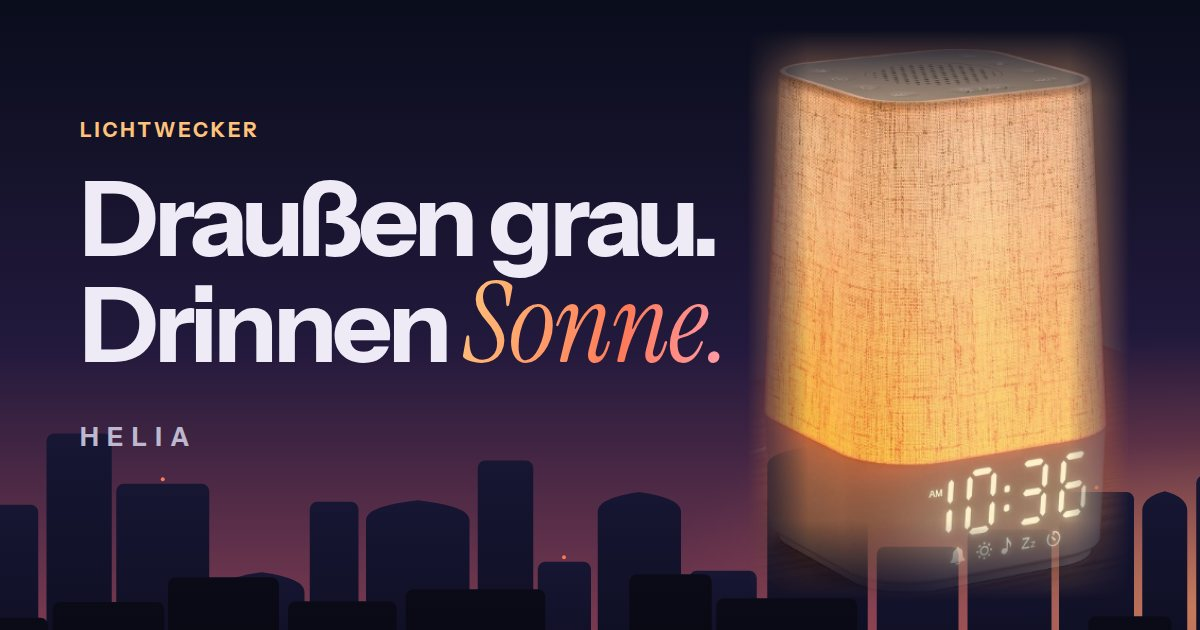
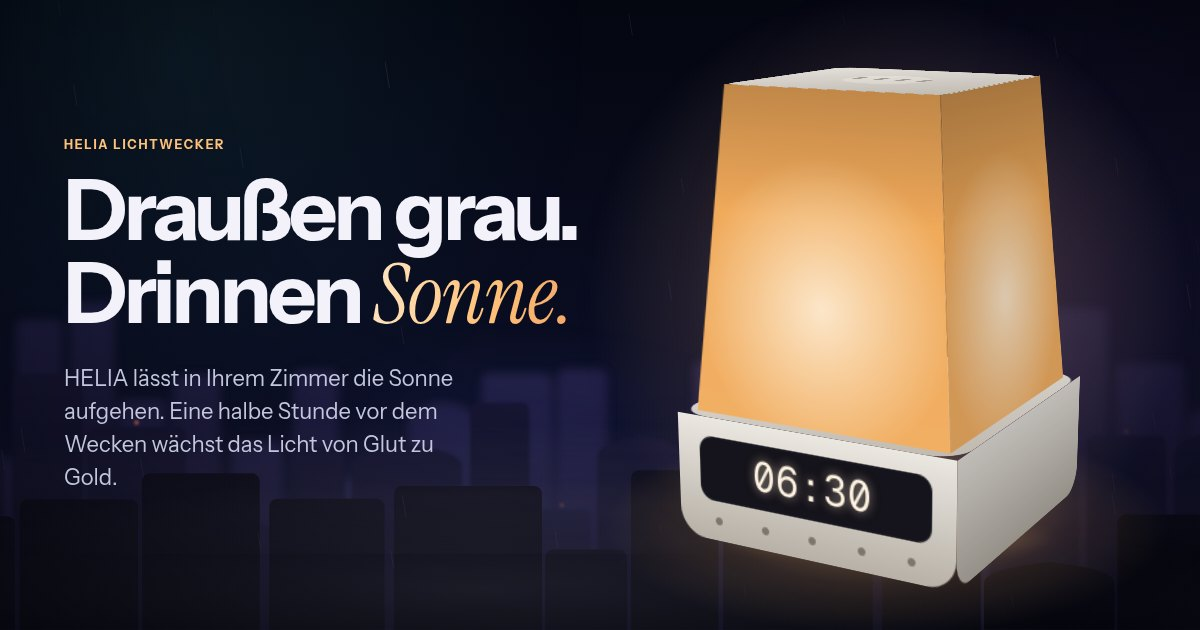
HELIA: Kopfbereich mit leuchtender 3D-Lampe und modernerem Auftritt
Kopfbereich im goldenen Schnitt mit drehbarer 3D-Lampe statt Fremdfoto,
Licht-Intro beim Laden, gestaffelte Überschrift, schwebende Hinweise mit
Tiefe, Lichtteppich, hochzählende Zahlen. Vorschaubild ohne Fremdfoto.

Claude-Session: https://claude.ai/code/session_01FxD9XwDGaasw5Yh16VoMkN

diff --git a/shops/helia/index.html b/shops/helia/index.html
@@ -61,32 +61,25 @@
 <main id="inhalt">
 
 <section class="held" aria-labelledby="titel">
-  <span class="marke">HELIA Lichtwecker</span>
-  <h1 id="titel">Draußen grau. Drinnen <span class="leucht">Sonne.</span></h1>
-  <p class="held__unter">HELIA lässt in Ihrem Zimmer die Sonne aufgehen. Eine halbe Stunde vor dem Wecken wächst das Licht von Glut zu Gold.</p>
-  <a class="held__sterne" href="#bewertungen" data-rez="kopf"><span class="sterne" data-rez="sterne-kopf"></span><span data-rez="kopf-text">Bewertungen ansehen</span></a>
-  <div class="held__kauf">
-    <div class="preis">
-      <span class="preis__betrag" data-preis="einzeln">49,90 €</span>
-      <span class="preis__info" data-nur-einfuehrung>Einführungspreis bis 30.11.2026</span>
+  <div class="held__text">
+    <span class="marke held__an" style="--i:0">HELIA Lichtwecker</span>
+    <h1 id="titel"><span class="held__an" style="--i:1">Draußen grau.</span> <span class="held__an" style="--i:2">Drinnen <span class="leucht">Sonne.</span></span></h1>
+    <p class="held__unter held__an" style="--i:3">HELIA lässt in Ihrem Zimmer die Sonne aufgehen. Eine halbe Stunde vor dem Wecken wächst das Licht von Glut zu Gold.</p>
+    <a class="held__sterne held__an" style="--i:4" href="#bewertungen" data-rez="kopf"><span class="sterne" data-rez="sterne-kopf"></span><span data-rez="kopf-text">Bewertungen ansehen</span></a>
+    <div class="held__kauf held__an" style="--i:5">
+      <div class="preis">
+        <span class="preis__betrag" data-preis="einzeln">49,90 €</span>
+        <span class="preis__info" data-nur-einfuehrung>Einführungspreis bis 30.11.2026</span>
+      </div>
+      <button class="knopf knopf--gross" type="button" data-hinzu="einzeln"><svg viewBox="0 0 24 24" fill="none" stroke="currentColor" stroke-width="1.7" stroke-linecap="round" stroke-linejoin="round" aria-hidden="true"><path d="M5 8h14l-1.2 11.2a2 2 0 0 1-2 1.8H8.2a2 2 0 0 1-2-1.8z"/><path d="M9 8V6.5a3 3 0 0 1 6 0V8"/></svg>In den Warenkorb</button>
     </div>
-    <button class="knopf knopf--gross" type="button" data-hinzu="einzeln"><svg viewBox="0 0 24 24" fill="none" stroke="currentColor" stroke-width="1.7" stroke-linecap="round" stroke-linejoin="round" aria-hidden="true"><path d="M5 8h14l-1.2 11.2a2 2 0 0 1-2 1.8H8.2a2 2 0 0 1-2-1.8z"/><path d="M9 8V6.5a3 3 0 0 1 6 0V8"/></svg>In den Warenkorb</button>
+    <p class="kleingedruckt held__an" style="--i:6">Danach 59,90 €. Inkl. 19 % MwSt., zzgl. 4,90 € Versand, ab 59 € Bestellwert kostenlos. <a href="/versand-und-zahlung">Versand und Zahlung</a></p>
   </div>
-  <p class="kleingedruckt">Danach 59,90 €. Inkl. 19 % MwSt., zzgl. 4,90 € Versand, ab 59 € Bestellwert kostenlos. <a href="/versand-und-zahlung">Versand und Zahlung</a></p>
-  <div class="buehne-raum"><div class="buehne wachsen" data-raum>
-    <div class="lampe lampe--foto">
-      <div class="lampe__halo"></div>
-      <img src="/assets/img/produkt-entwurf.jpg" width="361" height="537" alt="HELIA: Lichtwecker mit warm leuchtendem Stoffschirm und Display, das 10:36 zeigt">
-    </div>
-    <div class="hinweis-chip hinweis-chip--1"><b>Glut bis Gold</b><span>in 10 bis 60 Minuten</span></div>
-      <div class="hinweis-chip hinweis-chip--2"><b>Sonnenuntergang</b><span>dimmt abends langsam aus</span></div>
-      <div class="hinweis-chip hinweis-chip--3"><b>Kein Handy</b><span>am Bett nötig</span></div>
-  </div></div>
-  <div class="chips-mobil" aria-hidden="true">
-    <div class="hinweis-chip hinweis-chip--1"><b>Glut bis Gold</b><span>in 10 bis 60 Minuten</span></div>
-      <div class="hinweis-chip hinweis-chip--2"><b>Sonnenuntergang</b><span>dimmt abends langsam aus</span></div>
-      <div class="hinweis-chip hinweis-chip--3"><b>Kein Handy</b><span>am Bett nötig</span></div>
+  <div class="held__lampe" data-intro>
+    <div class="l3d" data-dreh tabindex="0" role="img" aria-label="3D-Modell des Lichtweckers HELIA. Zum Drehen ziehen oder Pfeiltasten nutzen."><div class="lampe__halo"></div><div class="l3d__boden"></div><div class="l3d__buehne"><div class="l3d__skala"><div class="l3d__objekt"><i class="l3d__pool"></i><i class="l3d__ring"></i><i class="l3d__sockel" style="--k:0"><span class="l3d__display"><span class="zeit">06:30</span></span><span class="l3d__symbole"><b></b><b class="symbol--licht"></b><b></b><b></b><b></b></span></i><i class="l3d__sockel" style="--k:1"></i><i class="l3d__sockel" style="--k:2"></i><i class="l3d__sockel" style="--k:3"></i><i class="l3d__schirm" style="--k:0"></i><i class="l3d__schirm" style="--k:1"></i><i class="l3d__schirm" style="--k:2"></i><i class="l3d__schirm" style="--k:3"></i><i class="l3d__deckel"></i></div></div></div></div><p class="dreh-hinweis"><svg viewBox="0 0 24 24" fill="none" stroke="currentColor" stroke-width="1.6" stroke-linecap="round" stroke-linejoin="round" aria-hidden="true"><path d="M3 12a9 4 0 0 0 18 0M21 12a9 4 0 0 0-14-3.3"/><path d="M8.5 5.5L7 8.7l3.4.7"/></svg>Zum Drehen ziehen</p>
+    <div class="held__chips" aria-hidden="true"><div class="hinweis-chip"><b>Glut bis Gold</b><span>in 10 bis 60 Minuten</span></div><div class="hinweis-chip"><b>Sonnenuntergang</b><span>dimmt abends aus</span></div><div class="hinweis-chip"><b>Kein Handy</b><span>am Bett nötig</span></div></div>
   </div>
+  <div class="chips-mobil" aria-hidden="true"><div class="hinweis-chip"><b>Glut bis Gold</b><span>in 10 bis 60 Minuten</span></div><div class="hinweis-chip"><b>Sonnenuntergang</b><span>dimmt abends aus</span></div><div class="hinweis-chip"><b>Kein Handy</b><span>am Bett nötig</span></div></div>
 </section>
 
 <section class="kapitel" id="ueberblick" aria-labelledby="u-titel">
@@ -95,10 +88,10 @@
     <h2 id="u-titel">Alles, was ein Morgen braucht.</h2>
   </div>
   <div class="blick">
-    <div data-kipp class="blick__kachel glas zeigen"><span class="blick__zahl">30<small>Min</small></span><span class="blick__text">Sonnenaufgang, von 10 bis 60 Minuten einstellbar</span></div>
-    <div data-kipp class="blick__kachel glas zeigen" style="--d:60ms"><span class="blick__zahl">12</span><span class="blick__text">Klänge, von Regen bis Lagerfeuer</span></div>
-    <div data-kipp class="blick__kachel glas zeigen" style="--d:120ms"><span class="blick__zahl">2</span><span class="blick__text">Weckzeiten, etwa für Woche und Wochenende</span></div>
-    <div data-kipp class="blick__kachel glas zeigen" style="--d:180ms"><span class="blick__zahl">20</span><span class="blick__text">Helligkeitsstufen für das Leselicht</span></div>
+    <div data-kipp class="blick__kachel glas zeigen"><span class="blick__zahl"><span data-zaehlen="30">30</span><small>Min</small></span><span class="blick__text">Sonnenaufgang, von 10 bis 60 Minuten einstellbar</span></div>
+    <div data-kipp class="blick__kachel glas zeigen" style="--d:60ms"><span class="blick__zahl" data-zaehlen="12">12</span><span class="blick__text">Klänge, von Regen bis Lagerfeuer</span></div>
+    <div data-kipp class="blick__kachel glas zeigen" style="--d:120ms"><span class="blick__zahl" data-zaehlen="2">2</span><span class="blick__text">Weckzeiten, etwa für Woche und Wochenende</span></div>
+    <div data-kipp class="blick__kachel glas zeigen" style="--d:180ms"><span class="blick__zahl" data-zaehlen="20">20</span><span class="blick__text">Helligkeitsstufen für das Leselicht</span></div>
   </div>
 </section>
 
@@ -129,7 +122,7 @@
       </div>
       <p class="hinweis-bildschirm">Die Farben auf Ihrem Bildschirm können von der echten Lampe abweichen.</p>
     </div>
-    <div class="aufgang__lampe"><div class="l3d" data-dreh tabindex="0" role="img" aria-label="3D-Modell des Lichtweckers HELIA. Zum Drehen ziehen oder Pfeiltasten nutzen."><div class="lampe__halo"></div><div class="l3d__boden"></div><div class="l3d__buehne"><div class="l3d__skala"><div class="l3d__objekt"><i class="l3d__ring"></i><i class="l3d__sockel" style="--k:0"><span class="l3d__display"><span class="zeit">06:00</span></span><span class="l3d__symbole"><b></b><b class="symbol--licht"></b><b></b><b></b><b></b></span></i><i class="l3d__sockel" style="--k:1"></i><i class="l3d__sockel" style="--k:2"></i><i class="l3d__sockel" style="--k:3"></i><i class="l3d__schirm" style="--k:0"></i><i class="l3d__schirm" style="--k:1"></i><i class="l3d__schirm" style="--k:2"></i><i class="l3d__schirm" style="--k:3"></i><i class="l3d__deckel"></i></div></div></div></div><p class="dreh-hinweis"><svg viewBox="0 0 24 24" fill="none" stroke="currentColor" stroke-width="1.6" stroke-linecap="round" stroke-linejoin="round" aria-hidden="true"><path d="M3 12a9 4 0 0 0 18 0M21 12a9 4 0 0 0-14-3.3"/><path d="M8.5 5.5L7 8.7l3.4.7"/></svg>Zum Drehen ziehen</p></div>
+    <div class="aufgang__lampe"><div class="l3d" data-dreh tabindex="0" role="img" aria-label="3D-Modell des Lichtweckers HELIA. Zum Drehen ziehen oder Pfeiltasten nutzen."><div class="lampe__halo"></div><div class="l3d__boden"></div><div class="l3d__buehne"><div class="l3d__skala"><div class="l3d__objekt"><i class="l3d__pool"></i><i class="l3d__ring"></i><i class="l3d__sockel" style="--k:0"><span class="l3d__display"><span class="zeit">06:00</span></span><span class="l3d__symbole"><b></b><b class="symbol--licht"></b><b></b><b></b><b></b></span></i><i class="l3d__sockel" style="--k:1"></i><i class="l3d__sockel" style="--k:2"></i><i class="l3d__sockel" style="--k:3"></i><i class="l3d__schirm" style="--k:0"></i><i class="l3d__schirm" style="--k:1"></i><i class="l3d__schirm" style="--k:2"></i><i class="l3d__schirm" style="--k:3"></i><i class="l3d__deckel"></i></div></div></div></div><p class="dreh-hinweis"><svg viewBox="0 0 24 24" fill="none" stroke="currentColor" stroke-width="1.6" stroke-linecap="round" stroke-linejoin="round" aria-hidden="true"><path d="M3 12a9 4 0 0 0 18 0M21 12a9 4 0 0 0-14-3.3"/><path d="M8.5 5.5L7 8.7l3.4.7"/></svg>Zum Drehen ziehen</p></div>
     <div class="aufgang__fortschritt" aria-hidden="true"><i></i></div>
   </div>
 </section>

diff --git a/shops/helia/assets/style.css b/shops/helia/assets/style.css
@@ -188,34 +188,35 @@ p{margin:0 0 var(--s3)}
   mask-composite:intersect}
 
 /* ---------- Kopfbereich: zentriert, Bühne darunter ---------- */
-.held{position:relative;max-width:calc(var(--breite) + 2*var(--rand));margin:0 auto;padding:var(--s5) var(--rand) 0;text-align:center}
+.held{position:relative;max-width:calc(var(--breite) + 2*var(--rand));margin:0 auto;padding:var(--s4) var(--rand) 0;
+  display:grid;grid-template-columns:1fr 1.618fr;align-items:center;gap:var(--s4);min-height:min(calc(100svh - 130px),820px)}
+.held__text{position:relative;z-index:2}
 .held .marke{margin-bottom:var(--s3)}
-.held h1{font-size:clamp(2.6rem,5.2vw,4.8rem);margin:0 auto}
-.held__unter{color:var(--text-2);font-size:clamp(1.1rem,1.6vw,1.3rem);line-height:1.5;max-width:44rem;margin:var(--s3) auto 0}
-.held__kauf{display:flex;flex-wrap:wrap;align-items:center;justify-content:center;gap:var(--s3) var(--s4);margin-top:var(--s4)}
-.preis{display:flex;flex-direction:column;align-items:flex-start;text-align:left;gap:.1rem}
-.preis__betrag{font:700 1.9rem/1 var(--f-sans);letter-spacing:-.03em;font-variant-numeric:tabular-nums}
+.held h1{font-size:clamp(2.8rem,5vw,5.2rem);line-height:.98;letter-spacing:-.045em}
+.held h1 > span{display:block}
+.held__unter{color:var(--text-2);font-size:clamp(1.1rem,1.5vw,1.28rem);line-height:1.5;max-width:30rem;margin:var(--s4) 0 0}
+.held__kauf{display:flex;flex-wrap:wrap;align-items:center;gap:var(--s3) var(--s4);margin-top:var(--s5)}
+.held .kleingedruckt{margin:var(--s3) 0 0;max-width:30rem}
+.preis{display:flex;flex-direction:column;gap:.15rem}
+.preis__betrag{font:700 2.1rem/1 var(--f-sans);letter-spacing:-.035em;font-variant-numeric:tabular-nums}
 .preis__info{font-size:.84rem;color:var(--honig)}
-.held .kleingedruckt{margin:var(--s2) auto 0;max-width:46rem}
-.buehne-raum{perspective:1400px;margin:var(--s4) auto 0;max-width:var(--breite)}
-.buehne{position:relative;aspect-ratio:1.618/1;max-height:78vh;width:100%;display:grid;place-items:center;
-  transform-style:preserve-3d;transform:rotateX(var(--bx,0deg)) rotateY(var(--by,0deg));transition:transform .7s var(--ease-out)}
-.buehne.kippt{transition:transform .12s linear}
-.buehne::before{content:"";position:absolute;inset:0;border-radius:var(--radius-gross);transform:translateZ(-1px);
-  background:radial-gradient(60% 70% at 50% 62%,rgba(255,170,100,.18),transparent 70%),linear-gradient(180deg,rgba(34,40,86,.6),rgba(12,15,36,.7));
-  border:1px solid var(--glas-kante);border-top-color:var(--glas-licht);box-shadow:var(--schatten)}
-.buehne::after{content:"";position:absolute;left:10%;right:10%;bottom:-6%;height:12%;border-radius:50%;transform:translateZ(-60px);
-  background:radial-gradient(closest-side,rgba(0,0,0,.55),transparent);filter:blur(8px)}
-.buehne > .lampe{transform:translateZ(70px)}
-.buehne > .hinweis-chip{transform:translateZ(120px)}
-.buehne .lampe{height:86%;width:auto;aspect-ratio:361/537}
-.hinweis-chip{position:absolute;display:grid;gap:.15rem;text-align:left;padding:.9rem 1.15rem;border-radius:20px;min-width:11rem;
-  background:var(--glas-stark);border:1px solid var(--glas-kante);border-top-color:var(--glas-licht);-webkit-backdrop-filter:var(--blur);backdrop-filter:var(--blur);box-shadow:var(--schatten-klein)}
-.hinweis-chip b{font:700 1.5rem/1.05 var(--f-sans);letter-spacing:-.03em}
+.held__chips{position:absolute;inset:0;pointer-events:none}
+.held__chips .hinweis-chip{position:absolute;translate:calc(var(--px,0) * var(--t,20px)) calc(var(--py,0) * var(--t,20px));transition:translate .6s var(--ease-out);
+  animation:schweben 7s ease-in-out infinite;animation-delay:var(--v,0s)}
+.held__chips .hinweis-chip:nth-child(1){left:2%;top:20%;--t:34px}
+.held__chips .hinweis-chip:nth-child(2){right:0;top:42%;--t:22px;--v:-2.4s}
+.held__chips .hinweis-chip:nth-child(3){left:6%;bottom:22%;--t:44px;--v:-4.6s}
+@keyframes schweben{50%{transform:translateY(-10px)}}
+.held__an{animation:hoch 1s var(--ease-out) backwards;animation-delay:calc(var(--i) * 90ms + 150ms)}
+@keyframes hoch{from{opacity:0;translate:0 22px;filter:blur(6px)}}
+.held__lampe{position:relative;align-self:stretch;display:grid;align-content:center}
+.held__lampe::before{content:"";position:absolute;left:50%;top:48%;width:min(78vw,900px);aspect-ratio:1;translate:-50% -50%;border-radius:50%;pointer-events:none;
+  background:radial-gradient(closest-side,rgba(120,110,255,.10),transparent 70%)}
+.held__lampe .l3d{height:min(660px,74vh);--gr:1.42}
+.hinweis-chip{display:grid;gap:.15rem;text-align:left;padding:.9rem 1.15rem;border-radius:20px;
+  background:var(--glas-stark);border:1px solid var(--glas-kante);border-top-color:var(--glas-licht);box-shadow:var(--schatten-klein)}
+.hinweis-chip b{font:700 1.3rem/1.05 var(--f-sans);letter-spacing:-.03em}
 .hinweis-chip span{font-size:.84rem;color:var(--text-2)}
-.hinweis-chip--1{left:6%;top:18%}
-.hinweis-chip--2{right:6%;top:34%}
-.hinweis-chip--3{left:9%;bottom:16%}
 .chips-mobil{display:none}
 
 /* ---------- Auf einen Blick ---------- */
@@ -478,6 +479,7 @@ p{margin:0 0 var(--s3)}
 /* ---------- Tablet ---------- */
 @media (max-width:1020px){
   .kopf__nav a{padding:.45rem .55rem}
+  .held__chips{display:none}
   .blick{grid-template-columns:repeat(2,1fr)}
   .bento{grid-template-columns:repeat(2,1fr)}
   .kachel--display,.kachel--abend{grid-column:span 2}
@@ -488,7 +490,6 @@ p{margin:0 0 var(--s3)}
   .angebot__bild{min-height:0}
   .fuss__innen{grid-template-columns:1fr}
   .nacht{height:420px}
-  .hinweis-chip{min-width:0}
 }
 
 /* ---------- Handy: eigene Gestaltung ---------- */
@@ -508,19 +509,23 @@ p{margin:0 0 var(--s3)}
   .kapitel__kopf{margin-bottom:var(--s5)}
   .kapitel__kopf p{font-size:1.05rem}
 
-  .held{padding-top:var(--s5)}
-  .held h1{font-size:clamp(2.6rem,12vw,3.6rem)}
-  .held__kauf{flex-direction:column;gap:var(--s3)}
+  .held{grid-template-columns:1fr;min-height:0;padding-top:var(--s4);gap:0;text-align:center}
+  .held__text{display:contents}
+  .held .marke{order:1}
+  .held h1{order:2;font-size:clamp(2.6rem,12.5vw,3.8rem)}
+  .held__unter{order:3;margin:var(--s3) auto 0}
+  .held__lampe{order:4;margin-top:var(--s2)}
+  .held__lampe .l3d{height:290px;--gr:.76}
+  .held__chips{display:none}
+  .held__lampe .dreh-hinweis{display:none}
+  .held__sterne{order:5;justify-content:center;margin-top:0}
+  .held__kauf{order:6;flex-direction:column;gap:var(--s3);margin-top:var(--s3)}
   .preis{align-items:center;text-align:center}
   .held__kauf .knopf{width:100%}
-  .buehne-raum{margin-top:var(--s5)}
-  .buehne{aspect-ratio:auto;height:min(92vw,440px)}
-  .buehne::before{border-radius:var(--radius)}
-  .buehne .lampe{height:88%}
-  .hinweis-chip{display:none}
-  .chips-mobil{display:flex;gap:var(--s2);overflow-x:auto;scroll-snap-type:x mandatory;margin:var(--s3) calc(var(--rand) * -1) 0;padding:0 var(--rand) .3rem;scrollbar-width:none}
+  .held .kleingedruckt{order:7;margin:var(--s3) auto 0}
+  .chips-mobil{order:8;display:flex;gap:var(--s2);overflow-x:auto;scroll-snap-type:x mandatory;margin:var(--s4) calc(var(--rand) * -1) 0;padding:0 var(--rand) .3rem;scrollbar-width:none}
   .chips-mobil::-webkit-scrollbar{display:none}
-  .chips-mobil .hinweis-chip{display:grid;position:static;flex:none;scroll-snap-align:start;min-width:10.5rem}
+  .chips-mobil .hinweis-chip{flex:none;scroll-snap-align:start;min-width:10.5rem}
 
   .blick{gap:var(--s2)}
   .blick__kachel{padding:var(--s4)}
@@ -591,7 +596,7 @@ p{margin:0 0 var(--s3)}
   @starting-style{.korb[open]{opacity:0;transform:none}}
 }
 @media (prefers-reduced-transparency:reduce){
-  .glas,.kopf,.hinweis-chip,.kaufleiste,.korb,.fuss,.bewerten{background:#10142c;-webkit-backdrop-filter:none;backdrop-filter:none}
+  .glas,.kopf,.hinweis-chip,.l3d__chip,.kaufleiste,.korb,.fuss,.bewerten{background:#10142c;-webkit-backdrop-filter:none;backdrop-filter:none}
 }
 @media (prefers-contrast:more){
   :root{--glas-kante:rgba(239,235,246,.4);--text-2:#e4e0ee;--text-3:#d0cbe0}
@@ -730,9 +735,18 @@ textarea.feld{min-height:8rem;resize:vertical;line-height:1.5}
 }
 @media (prefers-reduced-motion:reduce){
   .knopf--gross{animation:none}
-  [data-kipp],.buehne{transform:none!important}
+  [data-kipp]{transform:none!important}
+  .held__an,.held__chips .hinweis-chip{animation:none}
   .rez__karte{animation:none}
   .bewerten{transition:opacity .2s ease;scale:none}
 }
 .bewerten legend{font-size:.86rem;color:var(--text-2);margin-bottom:.35rem;padding:0}
 .bewerten form > .leise-knopf{justify-self:start}
+
+.l3d__pool{left:-300px;top:-300px;width:600px;height:600px;border-radius:50%;transform:translateY(92px) rotateX(90deg);backface-visibility:visible!important;
+  background:radial-gradient(closest-side,color-mix(in srgb,var(--lamp) calc(var(--glow) * 55%),transparent),color-mix(in srgb,var(--lamp) calc(var(--glow) * 14%),transparent) 45%,transparent 70%)}
+.l3d__chip{position:absolute;left:0;top:0;width:180px;margin-left:-90px;display:grid;gap:3px;padding:12px 14px;border-radius:16px;
+  font-size:calc(15px / var(--gr));text-align:left;pointer-events:none;will-change:transform,opacity;
+  background:rgba(11,14,34,.78);border:1px solid rgba(239,235,246,.14);border-top-color:rgba(255,255,255,.22);box-shadow:0 18px 40px -18px rgba(0,0,0,.7)}
+.l3d__chip b{font:700 calc(19px / var(--gr))/1.05 var(--f-sans);letter-spacing:-.02em;color:var(--text)}
+.l3d__chip span{color:var(--text-2)}

diff --git a/shops/helia/assets/script.js b/shops/helia/assets/script.js
@@ -177,7 +177,7 @@
   }
 
   /* ---------- Uhrzeit auf der Lampe im Kopfbereich ---------- */
-  const heldZeit = $('.held .lampe .zeit');
+  const heldZeit = $('.held .zeit');
   function uhr() {
     if (!heldZeit) return;
     const d = new Date();
@@ -320,6 +320,12 @@
   const planen = () => { if (!wartet) { wartet = true; requestAnimationFrame(() => { wartet = false; bild(); }); } };
   addEventListener('scroll', planen, { passive: true });
   if (feinZeiger && !ruhig) addEventListener('pointermove', (e) => { maus.x = e.clientX / innerWidth - 0.5; maus.y = e.clientY / innerHeight - 0.5; planen(); }, { passive: true });
+  const held = $('.held');
+  if (held && feinZeiger && !ruhig) {
+    // Kärtchen im Kopfbereich folgen dem Zeiger je nach Tiefe unterschiedlich stark
+    held.addEventListener('pointermove', (e) => { held.style.setProperty('--px', (e.clientX / innerWidth - 0.5).toFixed(3)); held.style.setProperty('--py', (e.clientY / innerHeight - 0.5).toFixed(3)); });
+    held.addEventListener('pointerleave', () => { held.style.setProperty('--px', '0'); held.style.setProperty('--py', '0'); });
+  }
   addEventListener('resize', planen);
   bild();
 
@@ -449,21 +455,6 @@
 
   /* ---------- 3D: Bühne und Karten kippen mit dem Zeiger ---------- */
   if (feinZeiger && !ruhig) {
-    const raum = $('[data-raum]');
-    if (raum) {
-      raum.addEventListener('pointermove', (e) => {
-        const r = raum.getBoundingClientRect();
-        const x = (e.clientX - r.left) / r.width - 0.5, y = (e.clientY - r.top) / r.height - 0.5;
-        raum.classList.add('kippt');
-        raum.style.setProperty('--by', (x * 10).toFixed(2) + 'deg');
-        raum.style.setProperty('--bx', (-y * 8).toFixed(2) + 'deg');
-      });
-      raum.addEventListener('pointerleave', () => {
-        raum.classList.remove('kippt');
-        raum.style.setProperty('--by', '0deg');
-        raum.style.setProperty('--bx', '0deg');
-      });
-    }
     $$('[data-kipp]').forEach((k) => {
       k.addEventListener('pointermove', (e) => {
         const r = k.getBoundingClientRect();
@@ -482,18 +473,25 @@
     });
   }
 
-  /* ---------- 3D-Lampe: ziehen, mit Schwung loslassen, Pfeiltasten ---------- */
-  const l3d = $('[data-dreh]');
-  if (l3d) {
+  /* ---------- 3D-Lampen: ziehen, mit Schwung loslassen, Pfeiltasten, kreisende Kärtchen ---------- */
+  $$('[data-dreh]').forEach((l3d, nr) => {
     const objekt = $('.l3d__objekt', l3d);
     const flaechen = $$('.l3d__schirm, .l3d__sockel', l3d).map((el) => ({ el, k: Number(el.style.getPropertyValue('--k')), schirm: el.classList.contains('l3d__schirm') }));
-    let winkel = 24, tempo = 0, zieht = false, letztesX = 0, proben = [], sichtbar = false, zuletzt = performance.now();
-    const EIGEN = ruhig ? 0 : 7; // Grad pro Sekunde, langsames Eigendrehen
+    const chips = $$('.l3d__chip', l3d).map((el) => ({ el, a: Number(el.dataset.winkel), h: Number(el.dataset.hoehe) }));
+    let winkel = nr === 0 ? -28 : 24, tempo = 0, zieht = false, letztesX = 0, proben = [], sichtbar = false, zuletzt = performance.now();
+    const EIGEN = ruhig ? 0 : (chips.length ? 9 : 7); // Grad pro Sekunde, langsames Eigendrehen
+    const RADIUS = 215;
     function zeichnen() {
       objekt.style.transform = `rotateX(-14deg) rotateY(${winkel.toFixed(2)}deg)`;
       flaechen.forEach((f) => {
         const c = Math.cos(((winkel + f.k * 90) * Math.PI) / 180);
         f.el.style.setProperty('--hell', (f.schirm ? 0.72 + 0.32 * Math.max(0, c) : 0.6 + 0.45 * Math.max(0, c)).toFixed(3));
+      });
+      chips.forEach((c) => {
+        // Kärtchen kreisen um die Lampe, schauen aber immer zum Betrachter
+        const vorn = Math.cos(((c.a + winkel) * Math.PI) / 180);
+        c.el.style.transform = `translateY(${-c.h}px) rotateY(${c.a}deg) translateZ(${RADIUS}px) rotateY(${-(c.a + winkel)}deg) rotateX(14deg)`;
+        c.el.style.opacity = (0.25 + 0.75 * Math.max(0, (vorn + 0.35) / 1.35)).toFixed(3);
       });
     }
     function schritt(jetzt) {
@@ -519,7 +517,7 @@
       proben = proben.filter((p) => e.timeStamp - p.t < 100);
       zeichnen();
     });
-    const loslassen = (e) => {
+    const loslassen = () => {
       if (!zieht) return;
       zieht = false; l3d.classList.remove('zieht');
       const a = proben[0], b = proben[proben.length - 1];
@@ -541,6 +539,43 @@
       }).observe(l3d);
     }
     document.addEventListener('visibilitychange', () => { if (!document.hidden && sichtbar) starten(); });
+  });
+
+  /* ---------- Kopfbereich: die Lampe geht beim Laden auf wie die Sonne ---------- */
+  const intro = $('[data-intro]');
+  if (intro) {
+    const ende = { lamp: '#ffb35c', glow: 0.92 };
+    if (ruhig) { intro.style.setProperty('--lamp', ende.lamp); intro.style.setProperty('--glow', ende.glow); }
+    else {
+      const dauer = 2600, start = performance.now() + 250;
+      const lauf = (jetzt) => {
+        const t = klemmen((jetzt - start) / dauer);
+        const e = 1 - Math.pow(1 - t, 3);
+        intro.style.setProperty('--lamp', verlauf(LAMPE, e * 0.8, 1));
+        intro.style.setProperty('--glow', (0.04 + 0.88 * e).toFixed(3));
+        if (t < 1) requestAnimationFrame(lauf);
+      };
+      intro.style.setProperty('--glow', '0.04');
+      requestAnimationFrame(lauf);
+    }
+  }
+
+  /* ---------- Zahlen zählen hoch, wenn sie ins Bild kommen ---------- */
+  if (!ruhig && 'IntersectionObserver' in window) {
+    const zio = new IntersectionObserver((ein) => {
+      ein.forEach((e) => {
+        if (!e.isIntersecting) return;
+        zio.unobserve(e.target);
+        const el = e.target, ziel = Number(el.dataset.zaehlen), t0 = performance.now();
+        const z = (jetzt) => {
+          const t = klemmen((jetzt - t0) / 1100);
+          el.textContent = String(Math.round(ziel * (1 - Math.pow(1 - t, 3))));
+          if (t < 1) requestAnimationFrame(z);
+        };
+        requestAnimationFrame(z);
+      });
+    }, { threshold: 0.6 });
+    $$('[data-zaehlen]').forEach((el) => zio.observe(el));
   }
 
   /* ---------- Bewertungen ---------- */

diff --git a/notes/2026-10-05.md b/notes/2026-10-05.md
@@ -42,3 +42,14 @@
   Akzentwörter jetzt Honig statt Orange, damit sie nicht mit dem Knopf konkurrieren.
 - Datenschutz um Bewertungen ergänzt. send.php nimmt Bewertungen an (art=bewertung, gleiche Schutzmaßnahmen).
 - Vorschau Version 3: https://claude.ai/artifact/Nb8Wa8c47jvWUXgXp2ZX3G
+
+## Nachtrag 2: Modernisierung des Kopfbereichs (gleicher Tag)
+- Wunsch: Seite moderner und ansprechender.
+- Kopfbereich neu im goldenen Schnitt: Text links (1), große 3D-Lampe rechts (1,618) statt des unscharfen Amazon-Fotos.
+  Beim Laden "geht die Lampe auf" (Glut zu Gold in ca. 2,6 Sekunden), Display zeigt die echte Uhrzeit,
+  Überschrift und Text erscheinen gestaffelt. Lichtteppich unter der Lampe, drei Hinweis-Kärtchen schweben daneben und folgen
+  der Maus je nach Tiefe unterschiedlich stark (am Tablet und Handy ausgeblendet, dort als wischbare Leiste).
+- Das Amazon-Foto erscheint nur noch im Angebot. Das Vorschaubild für soziale Netzwerke zeigt jetzt die 3D-Lampe (kein Fremdbild mehr).
+- Zahlen in "Auf einen Blick" zählen beim Hineinscrollen hoch. 3D-Code unterstützt jetzt mehrere drehbare Lampen.
+- Geprüft: alle Seiten auf PC, Tablet, Handy ohne Fehler, Bestellung, Widerruf, Newsletter, Bewertungen, 3D-Drehen.
+- Vorschau Version 4: https://claude.ai/artifact/Nb8Wa8c47jvWUXgXp2ZX3G
